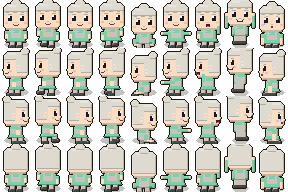
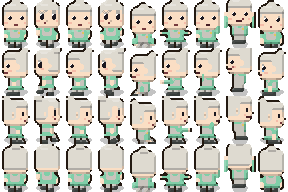
Put the cast on the room's pixel grid
The whole set -- every floor tile, wall, desk and shop item -- is
authored at 16 px per tile and Scale2x'd to 32, so a screen pixel of any
object is two art pixels wide. Characters were the one exception: since
the Sept 2026 overhaul draw_char() built them straight at 32x48 with no
Scale2x, so the teacher's pixels were half the size of the desk beside
them. That mismatch is what read as "the art scale isn't uniform".

draw_char() now quantises each frame to 16x24 and Scale2x's it back --
the identical pipeline every desk uses. Hats get the same pass. The
frame stays 32x48, the sheet stays 288x192, player.tscn and the
on-screen size are all unchanged; only the texel size is, and it now
matches the set.

The fine facial detail the 32x48 build bought (brows, a mouth per pose,
an eye highlight) can't survive at 16x24 and now lives only in the 96x96
portrait bust, which is UI and off the room grid -- the call recorded
when this was chosen.

Regenerated: 13 character sheets + 3 hats. Suite 2075 unchanged,
check_docs 304/304, contract untouched (no gameplay path reads art).
Screenshot: tools/shot.tscn teaching -- cast and furniture now one grid.

Changed region(s): [[0.0, 0.0, 1.0, 1.0], [0.9062, 0.0, 0.9688, 0.0312], [0.4688, 0.0, 0.5, 0.0312]]

diff --git a/tools/make_art.py b/tools/make_art.py
@@ -1042,14 +1042,21 @@ def draw_char(direction, frame, pal):
     person meets the floor -- which is the rule the whole game positions
     and depth-sorts by.
 
-    *(Sept 2026, the art overhaul.)* Drawn at the real 32x48 now rather
-    than as a doubled 16x24, which is what makes room for a face: eyes
-    with a highlight, brows, a mouth that changes with the pose, cheeks, a
-    nose on the profile. Hair is a real silhouette per style, clothes carry
-    a pattern, and one shading rule (rim_light: lit upper-left, shaded
-    lower-right) is applied to every frame after it is drawn so all four
-    facings agree about where the window is. Still one routine, many
-    palettes -- the only thing a character owns is its table entry.
+    *(Sept 2026, the art overhaul.)* Built at the full 32x48 -- eyes with
+    a highlight, brows, a mouth that changes with the pose, cheeks, a nose
+    on the profile, a real hair silhouette per style, a pattern on the
+    clothes -- with one shading rule (rim_light: lit upper-left, shaded
+    lower-right) applied to every frame so all four facings agree about
+    where the window is. Still one routine, many palettes.
+
+    *(Sept 2026, the pixel-grid pass.)* The frame is BUILT at 32x48 for
+    that detail, then quantised back onto the room's own grid before it is
+    returned: the whole set -- every tile, desk and shelf -- is authored
+    at 16 px per tile and Scale2x'd to 32, so a character drawn straight
+    at 32x48 had pixels half the size of the desk beside it. Each frame is
+    now resized to 16x24 and Scale2x'd the same way the furniture is. The
+    face that the 32x48 build buys survives only in the 96x96 portrait
+    bust, which is UI and off this grid.
     """
     p = resolve_palette(pal)
     im = Image.new("RGBA", (CW, CH), (0, 0, 0, 0))
@@ -1078,7 +1085,11 @@ def draw_char(direction, frame, pal):
     # jumper's shadow stays on the floor while the figure rises above it,
     # which is most of what sells "in the air" at this scale.
     shadow(im, CW // 2, CH - 4, 12 if pose != POSE_JUMP else 8, 4)
-    return im
+    # Quantise onto the room's 16-px-per-tile grid: resize to half and
+    # Scale2x back, exactly the pipeline every tile and every item uses.
+    # Frame stays 32x48, so the sheet, the scene and the on-screen size
+    # are all unchanged -- only the pixels get bigger, to match the set.
+    return scale2x(im.resize((CW // 2, CH // 2), Image.NEAREST))
 
 
 def make_character(name, pal):
@@ -2229,12 +2240,13 @@ if __name__ == "__main__":
         img = fn()
         if save_png(img, name):
             print("art/%-18s %3dx%-3d" % (name + ".png", img.width, img.height))
-    # Hats, like TITLE_ART and unlike furniture/ITEM_ART, are drawn
-    # directly at final scale rather than small-then-scale2x'd -- they
-    # are worn on the ALREADY-doubled character sheet, not placed in the
-    # room, so the character-drawing convention is the one that matches.
+    # Hats are worn on a character, so they follow the character grid --
+    # which, since the pixel-grid pass, is the same 16-per-tile / Scale2x
+    # grid as the rest of the room. Built at their full size for the shape,
+    # then quantised and Scale2x'd back, same as draw_char does per frame.
     for name, fn in HAT_ART.items():
-        img = fn()
+        raw = fn()
+        img = scale2x(raw.resize((raw.width // 2, raw.height // 2), Image.NEAREST))
         if save_png(img, name):
             print("art/%-18s %3dx%-3d" % (name + ".png", img.width, img.height))
     # The furniture lives in its own file because the catalogue outgrew this

diff --git a/docs/ART_CATALOG.md b/docs/ART_CATALOG.md
@@ -13,6 +13,15 @@ One 288&times;192 PNG per character: 9 columns &times; 4 rows of
 everyone because a character is a palette through one shared
 `draw_char()`, not separate artwork.
 
+*(Sept 2026, the pixel-grid pass.)* Each frame is BUILT at 32&times;48
+for the facial detail, then quantised to 16&times;24 and `scale2x`'d back
+before it is stored — the exact pipeline every tile and every furniture
+item uses (16 art-px per tile, Scale2x to 32). The cast used to be the
+one thing drawn straight at 32&times;48, so a teacher's pixels were half
+the size of the desk beside them. The frame, the sheet and the on-screen
+size are all unchanged; only the texel size is, and it now matches the
+set. The fine face survives only in the portrait bust below.
+
 | file | who |
 |---|---|
 | `player.png` | the teacher (you) |
@@ -62,13 +71,12 @@ not generate any art for it, portrait included.
 
 Worn on the head, at runtime, by whoever `Game.hat_id` names (currently
 only the player) — see `scripts/data/cosmetics.gd` and
-`Player.refresh_hat()`. Drawn directly at final scale, the same
-convention as the character sheets rather than the
-small-then-`scale2x`'d one furniture uses (§Furniture below): a hat is
-composited onto an already-doubled character, not placed in the room.
-One flat icon per hat, not a 9x4 sheet — chibi heads are round enough
-from every facing that a single sprite reads convincingly regardless of
-which way the wearer is walking.
+`Player.refresh_hat()`. Built at their full size for the shape, then
+quantised and `scale2x`'d back — the same pixel-grid pass `draw_char()`
+does per frame, so a hat sits on the same texel grid as the head under
+it and the room around it. One flat icon per hat, not a 9x4 sheet —
+chibi heads are round enough from every facing that a single sprite
+reads convincingly regardless of which way the wearer is walking.
 
 | file | hat | id |
 |---|---|---|
